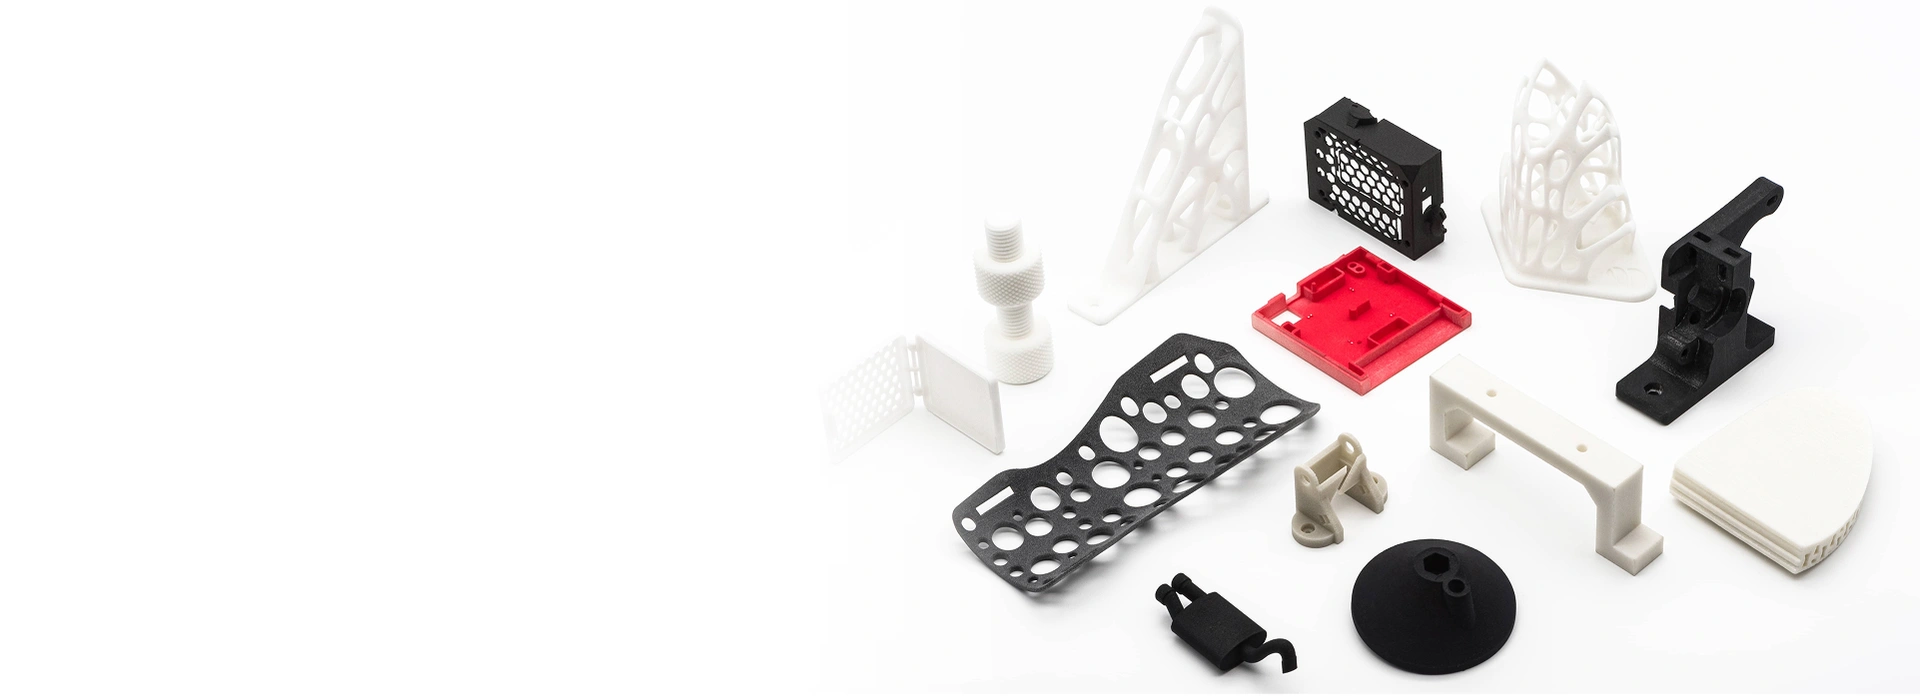
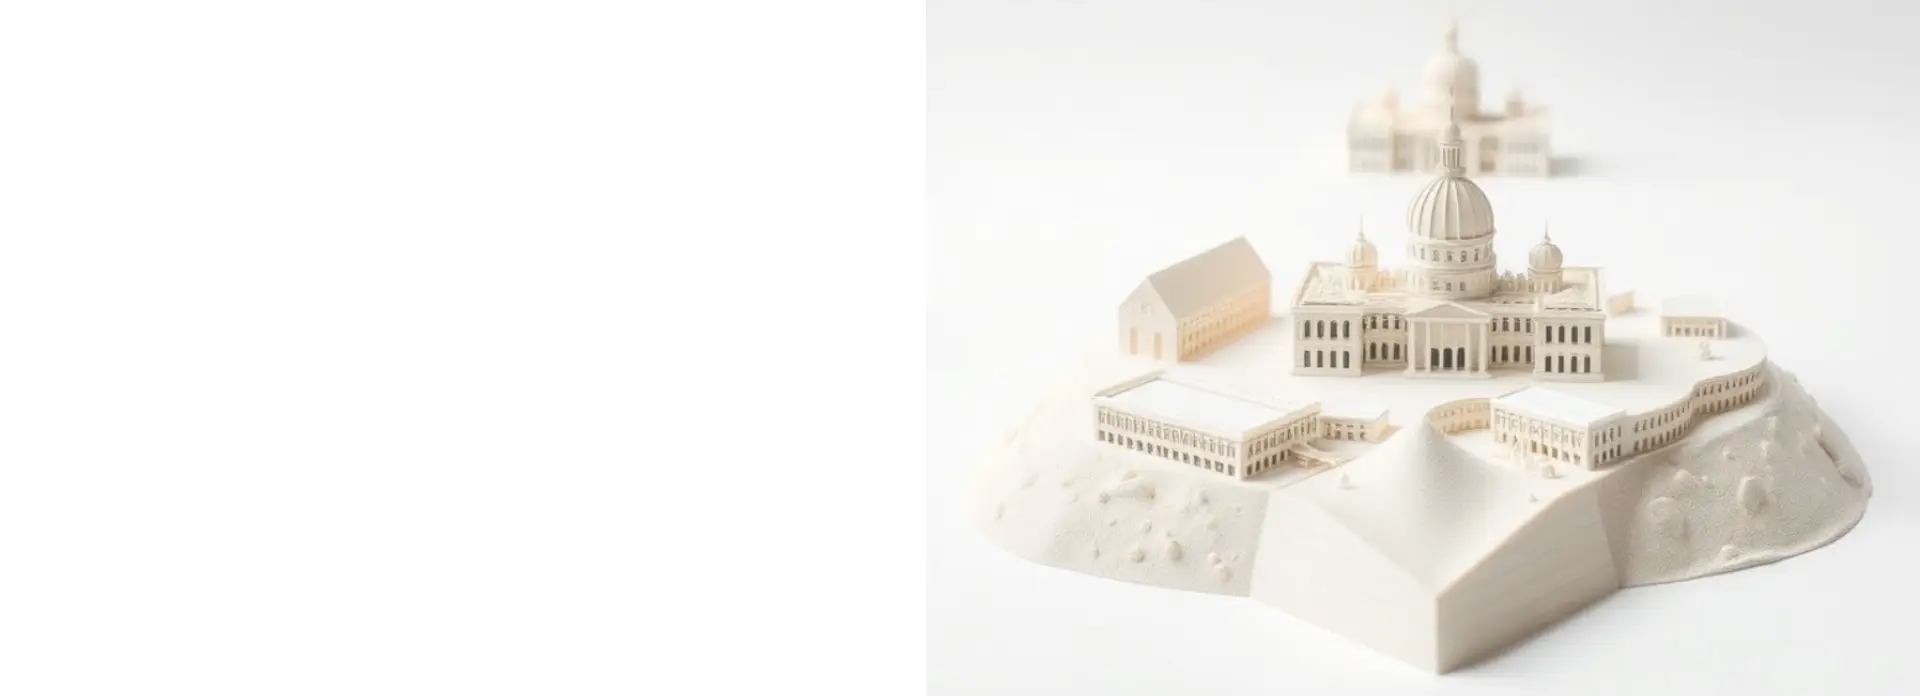
update

Changed region(s): [[0.4688, 0.0, 1.0, 0.9957], [0.8438, 0.0, 1.0, 0.1509]]

diff --git a/src/pages/onlineQuotation/index.tsx b/src/pages/onlineQuotation/index.tsx
@@ -474,12 +474,19 @@ const OnlineQuotation: React.FC = () => {
 
                 // 创建空心模型（使用EdgeGeometry显示边缘）
                 const hollowGeometry = new THREE.EdgesGeometry(geometry);
+                const defaultColor = defaultMaterial?.color || 0x87CEEB;
+                console.log(`🏗 创建空心模型，默认颜色: #${defaultColor.toString(16).padStart(6, '0').toUpperCase()}`);
+                
                 const hollowMaterial = new THREE.LineBasicMaterial({ 
-                    color: defaultMaterial?.color || 0x87CEEB,
-                    linewidth: 2
+                    color: defaultColor,
+                    // linewidth: 3, // WebGL中可能不支持，移除
+                    transparent: false,
+                    opacity: 1.0
                 });
                 const hollowMesh = new THREE.LineSegments(hollowGeometry, hollowMaterial);
                 hollowModelRef.current = hollowMesh;
+                
+                console.log(`✅ 空心模型创建完成，材质颜色: #${hollowMaterial.color.getHex().toString(16).padStart(6, '0').toUpperCase()}`);
 
                 // 计算模型信息
                 const calculatedModelInfo = calculateModelInfo(geometry);
@@ -514,7 +521,8 @@ const OnlineQuotation: React.FC = () => {
 
                 // 默认显示实心模型
                 sceneRef.current.add(solidMesh);
-                // 空心模型暂时隐藏
+                // 空心模型添加到场景但暂时隐藏
+                sceneRef.current.add(hollowMesh);
                 hollowMesh.visible = false;
 
                 // 更新相机位置以完整显示模型
@@ -536,21 +544,24 @@ const OnlineQuotation: React.FC = () => {
     // 处理空心/实心切换
     const handleHollowChange = (checked: boolean) => {
         setIsHollow(checked);
-        if (modelRef.current && hollowModelRef.current && sceneRef.current) {
+        if (modelRef.current && hollowModelRef.current) {
             if (checked) {
                 // 显示空心模型，隐藏实心模型
                 modelRef.current.visible = false;
                 hollowModelRef.current.visible = true;
-                if (!sceneRef.current.children.includes(hollowModelRef.current)) {
-                    sceneRef.current.add(hollowModelRef.current);
+                
+                // 切换到空心模式时，同步当前选择的材质颜色
+                const formValues = form.getFieldsValue();
+                if (formValues.material) {
+                    updateModelMaterial(formValues.material);
                 }
+                
+                console.log('切换到空心模型');
             } else {
                 // 显示实心模型，隐藏空心模型
                 modelRef.current.visible = true;
                 hollowModelRef.current.visible = false;
-                if (sceneRef.current.children.includes(hollowModelRef.current)) {
-                    sceneRef.current.remove(hollowModelRef.current);
-                }
+                console.log('切换到实心模型');
             }
         }
     };
@@ -745,6 +756,96 @@ const OnlineQuotation: React.FC = () => {
         }
     };
 
+    // 更新模型材质
+    const updateModelMaterial = (materialValue: string) => {
+        if (!modelRef.current || !sceneRef.current) return;
+        
+        const materialData = materials.find(m => m.value === materialValue);
+        if (!materialData) {
+            console.log(`❌ 找不到材质数据: ${materialValue}`);
+            return;
+        }
+        
+        console.log(`🔄 开始更新材质: ${materialData.label}`);
+        console.log(`当前模式: ${isHollow ? '空心' : '实心'}`);
+        
+        // 更新实心模型材质（始终更新，为切换做准备）
+        const mesh = modelRef.current;
+        const currentMaterial = mesh.material as THREE.MeshPhysicalMaterial;
+        
+        // 更新材质属性
+        currentMaterial.color.setHex(materialData.color || 0xCCCCCC);
+        currentMaterial.roughness = materialData.properties.roughness || 0.5;
+        currentMaterial.metalness = materialData.properties.metalness || 0.0;
+        currentMaterial.transmission = materialData.properties.transmission || 0;
+        currentMaterial.clearcoat = materialData.properties.clearcoat || 0.1;
+        currentMaterial.clearcoatRoughness = materialData.properties.clearcoatRoughness || 0.1;
+        currentMaterial.sheen = materialData.properties.sheen || 0.0;
+        currentMaterial.sheenRoughness = materialData.properties.sheenRoughness || 1.0;
+        currentMaterial.emissive.setHex(materialData.properties.emissive || 0x000000);
+        currentMaterial.emissiveIntensity = materialData.properties.emissiveIntensity || 0;
+        currentMaterial.needsUpdate = true;
+        
+        console.log(`✅ 实心模型材质已更新: ${materialData.label}`);
+        
+        // 更新空心模型的颜色（始终更新，为切换做准备）
+        if (hollowModelRef.current) {
+            const hollowMaterial = hollowModelRef.current.material as THREE.LineBasicMaterial;
+            const newColor = materialData.color || 0xCCCCCC;
+            
+            console.log(`🔄 更新空心模型材质: ${materialData.label}`);
+            console.log(`材质数据:`, materialData);
+            console.log(`原始颜色值: ${materialData.color}`);
+            console.log(`新颜色: #${newColor.toString(16).padStart(6, '0').toUpperCase()}`);
+            console.log(`空心模型可见性: ${hollowModelRef.current.visible}`);
+            console.log(`当前isHollow状态: ${isHollow}`);
+            
+            // 检查当前材质颜色
+            const currentColor = hollowMaterial.color.getHex();
+            console.log(`当前空心模型颜色: #${currentColor.toString(16).padStart(6, '0').toUpperCase()}`);
+            
+            // 确保颜色正确设置
+            hollowMaterial.color.setHex(newColor);
+            hollowMaterial.needsUpdate = true;
+            
+            // 强制重新创建材质实例以确保更新生效
+            const newHollowMaterial = new THREE.LineBasicMaterial({ 
+                color: newColor,
+                transparent: false,
+                opacity: 1.0
+            });
+            
+            // 清理旧材质
+            if (hollowModelRef.current.material) {
+                if (Array.isArray(hollowModelRef.current.material)) {
+                    hollowModelRef.current.material.forEach(mat => mat.dispose());
+                } else {
+                    hollowModelRef.current.material.dispose();
+                }
+            }
+            
+            // 设置新材质
+            hollowModelRef.current.material = newHollowMaterial;
+            
+            // 验证新材质颜色
+            const verifiedColor = (hollowModelRef.current.material as THREE.LineBasicMaterial).color.getHex();
+            console.log(`验证新材质颜色: #${verifiedColor.toString(16).padStart(6, '0').toUpperCase()}`);
+            
+            // 根据当前模式显示相应的更新信息
+            if (isHollow && hollowModelRef.current.visible) {
+                console.log(`✅ 空心模式 - 空心模型颜色已更新为: #${newColor.toString(16).padStart(6, '0').toUpperCase()}`);
+            } else if (!isHollow && modelRef.current.visible) {
+                console.log(`✅ 实心模式 - 实心模型颜色已更新为: #${newColor.toString(16).padStart(6, '0').toUpperCase()}`);
+            } else {
+                console.log(`⚠ 材质已设置，但当前模式为: ${isHollow ? '空心' : '实心'}`);
+            }
+        } else {
+            console.log(`❌ 空心模型引用不存在`);
+        }
+        
+        console.log(`🎨 材质更新完成: ${materialData.label}`);
+    };
+
     // 监听表单值变化
     const handleFormValuesChange = (changedValues: any, allValues: any) => {
         setActiveParams(allValues);
@@ -752,6 +853,22 @@ const OnlineQuotation: React.FC = () => {
         // 跟踪工艺选择状态
         if (changedValues.process) {
             setSelectedProcess(changedValues.process);
+        }
+        
+        // 更新材质
+        if (changedValues.material) {
+            updateModelMaterial(changedValues.material);
+        }
+        
+        // 应用工艺效果
+        if (changedValues.material || changedValues.process) {
+            const processData = printingProcesses.find(p => p.value === allValues.process);
+            const materialData = materials.find(m => m.value === allValues.material);
+            
+            if (processData && materialData && modelRef.current) {
+                const material = modelRef.current.material as THREE.MeshPhysicalMaterial;
+                applyProcessEffects(material, processData, materialData);
+            }
         }
     };
 
@@ -913,7 +1030,7 @@ const OnlineQuotation: React.FC = () => {
                                     checked={isHollow} 
                                     onChange={handleHollowChange}
                                     checkedChildren="空心" 
-                                    unCheckedChildren="实心"
+                                    unCheckedChildren="空心"
                                 />
                             </Form.Item>
 

diff --git a/src/pages/modelDetail/index.tsx b/src/pages/modelDetail/index.tsx
@@ -93,7 +93,7 @@ const ModelDetail: React.FC = () => {
   const animateRef = useRef<number | null>(null);
 
       // 加载STL模型的函数
-    const loadSTLModel = async (stlUrl: string) => {
+     const loadSTLModel = async (stlUrl: string) => {
       try {
         setLoading(true);
         // Step 1: 从URL获取文件并转换为File对象
@@ -469,11 +469,12 @@ const ModelDetail: React.FC = () => {
       
       // 为金属材质使用更亮的颜色，确保可见性
       if (fullMaterialData.category === 'metal') {
-        // 金属材质用白色线条，确保在所有背景下可见
-        hollowMaterial.color.set(0xFFFFFF);
+        // 金属材质使用其实际颜色，而不是硬编码的白色
+        hollowMaterial.color.set(materialData.color || 0xFFFFFF);
         hollowMaterial.linewidth = 4; // 金属用更粗的线条
         hollowMaterial.opacity = 0.9;
         hollowMaterial.transparent = true;
+        console.log(`🔧 ModelDetail - 金属材质空心模型颜色设置为: #${(materialData.color || 0xFFFFFF).toString(16).padStart(6, '0').toUpperCase()}`);
       } else if (fullMaterialData.value === 'transparent_pla') {
         hollowMaterial.color.set(materialData.color || 0x87CEEB);
         hollowMaterial.linewidth = 1;
@@ -495,8 +496,11 @@ const ModelDetail: React.FC = () => {
     setRotationAxis(e.target.value);
     const rotationValue = Math.PI / 2;
     
-    // 同时旋转实心和空心模型
+    // 同时旋转实心和空心模型，确保以网格中心为旋转中心
     if (modelRef.current) {
+      // 先重置位置到网格中心
+      modelRef.current.position.set(0, 0, 0);
+      
       switch(e.target.value) {
         case 'x':
           modelRef.current.rotation.set(rotationValue, 0, 0);
@@ -510,9 +514,22 @@ const ModelDetail: React.FC = () => {
         default:
           modelRef.current.rotation.set(0, 0, 0);
       }
+      
+      // 旋转后重新计算包围盒并居中
+      const box = new THREE.Box3().setFromObject(modelRef.current);
+      const center = new THREE.Vector3();
+      box.getCenter(center);
+      
+      // 将模型中心移动到网格中心
+      modelRef.current.position.sub(center);
+      
+      console.log(`🔄 实心模型旋转到: ${e.target.value}轴, 重新居中后位置: (${modelRef.current.position.x}, ${modelRef.current.position.y}, ${modelRef.current.position.z})`);
     }
     
     if (hollowModelRef.current) {
+      // 先重置位置到网格中心
+      hollowModelRef.current.position.set(0, 0, 0);
+      
       switch(e.target.value) {
         case 'x':
           hollowModelRef.current.rotation.set(rotationValue, 0, 0);
@@ -526,6 +543,16 @@ const ModelDetail: React.FC = () => {
         default:
           hollowModelRef.current.rotation.set(0, 0, 0);
       }
+      
+      // 旋转后重新计算包围盒并居中
+      const hollowBox = new THREE.Box3().setFromObject(hollowModelRef.current);
+      const hollowCenter = new THREE.Vector3();
+      hollowBox.getCenter(hollowCenter);
+      
+      // 将空心模型中心移动到网格中心
+      hollowModelRef.current.position.sub(hollowCenter);
+      
+      console.log(`🔄 空心模型旋转到: ${e.target.value}轴, 重新居中后位置: (${hollowModelRef.current.position.x}, ${hollowModelRef.current.position.y}, ${hollowModelRef.current.position.z})`);
     }
   };
 
@@ -703,7 +730,7 @@ const ModelDetail: React.FC = () => {
                       checked={isHollow} 
                       onChange={handleHollowChange}
                       checkedChildren="空心" 
-                      unCheckedChildren="实心"
+                      unCheckedChildren="空心"
                     />
                   </div>
 

diff --git a/src/data/materials.ts b/src/data/materials.ts
@@ -273,7 +273,7 @@ export const MATERIALS: Material[] = [
       flexibility: '低'
     },
     category: 'metal',
-    color: 0xD0D8E8, // 冷蓝银色（明显的蓝色调，医用不锈钢特征）
+    color: 0xE6E6FA, // 银白色，抛光不锈钢的真实颜色
     materialProps: {
       roughness: 0.05,
       metalness: 1.0,
@@ -303,15 +303,15 @@ export const MATERIALS: Material[] = [
       flexibility: '低'
     },
     category: 'metal',
-    color: 0xF0F0F0, // 纯银白色（最亮，轻质金属特征）
+    color: 0xC0C0C0, // 亮银色，铝合金特征
     materialProps: {
-      roughness: 0.15,
+      roughness: 0.1, // 降低粗糙度，增加反射
       metalness: 1.0,
       transmission: 0,
-      clearcoat: 0.75,
-      clearcoatRoughness: 0.10,
-      emissive: 0xF0F0F0,
-      emissiveIntensity: 0.12
+      clearcoat: 0.9, // 增加清漆层，提高光泽
+      clearcoatRoughness: 0.05, // 降低清漆粗糙度
+      emissive: 0xFFFFFF, // 使用白色发光
+      emissiveIntensity: 0.2 // 增加发光强度
     }
   },
   {
@@ -333,7 +333,7 @@ export const MATERIALS: Material[] = [
       flexibility: '低'
     },
     category: 'metal',
-    color: 0xE8DCC0, // 金铜色（明显的暖金色调，高端钛合金特征）
+    color: 0x8B8B8B, // 深银灰色，钛合金的真实颜色
     materialProps: {
       roughness: 0.12,
       metalness: 1.0,
@@ -363,7 +363,7 @@ export const MATERIALS: Material[] = [
       flexibility: '低'
     },
     category: 'metal',
-    color: 0x8C9098, // 深炭灰色（最暗，工业镍基合金特征）
+    color: 0x696969, // 深灰色，Inconel 718特征
     materialProps: {
       roughness: 0.30,
       metalness: 0.95,

diff --git a/src/http-service/index.ts b/src/http-service/index.ts
@@ -59,7 +59,7 @@ class HttpService {
       }
 
       // 兼容处理
-      if (!endpoint.includes('webapp')) {
+      if (!endpoint.includes('webapp')) { 
         const data: { status: number; result?: T; message?: string } =
           await response.json();
 
